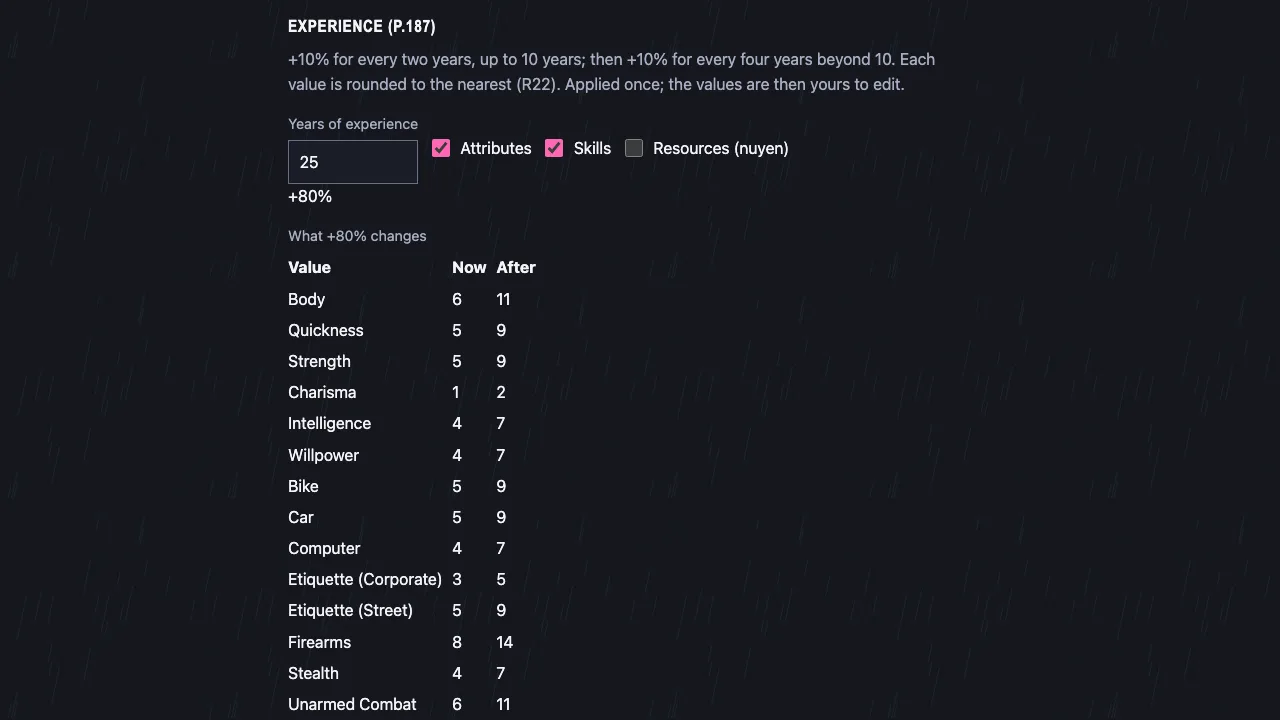
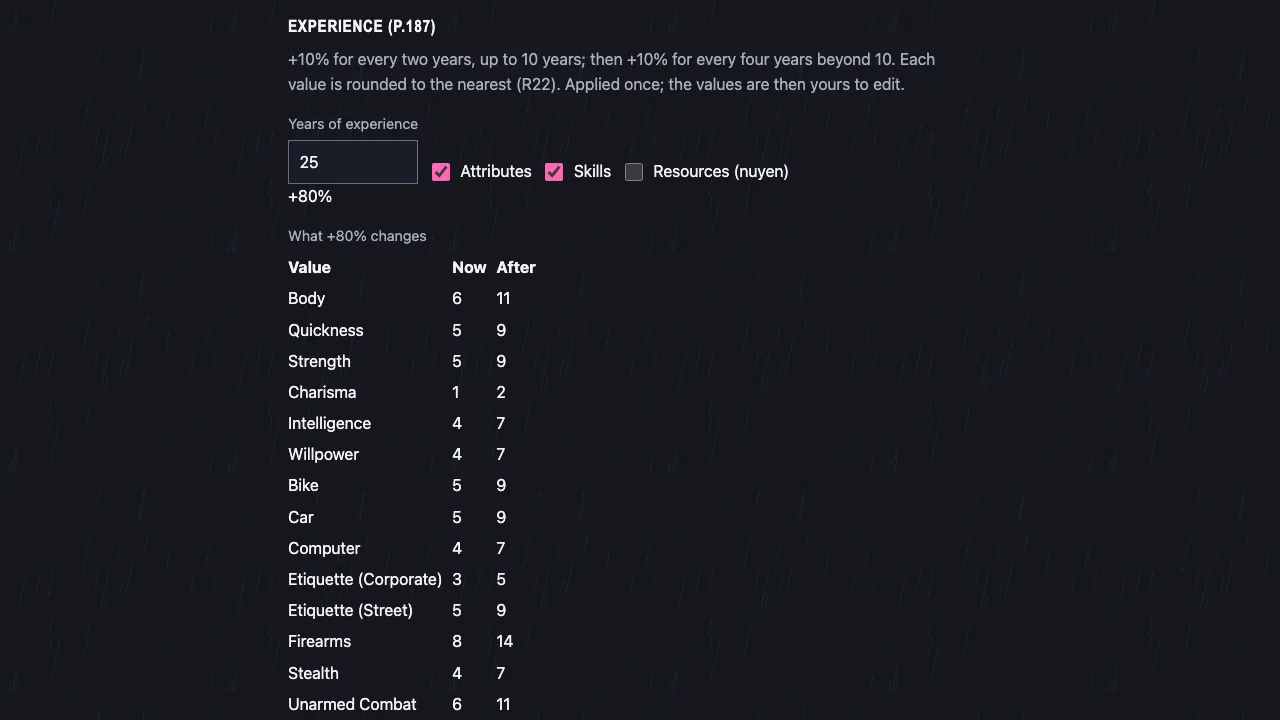
1.3.1: NPC page buttons line up with their fields; tests drop old test databases
The Threat Rating 'Use' buttons (and every button in a row of labelled fields on
the NPC page) align with the fields; 'Keep' for a book PR range has its own row.
Each test file drops earlier runs' unused t_ databases, so a long-lived local
Postgres/MySQL container no longer runs out of shared memory.

diff --git a/client/src/pages/Npc.svelte b/client/src/pages/Npc.svelte
@@ -113,9 +113,9 @@
     {#each [1, 2, 3, 4] as r (r)}<option value={r}>{r} · {PR_NAME[r]}</option>{/each}</select></label>
   <label><span>Threat Rating</span><input type="number" min="0" max="20" value={sys.threatRating} disabled={busy} onchange={(ev) => send([{ op: "setThreatRating", rating: num(ev) }])}></label>
 </div>
-<p class="muted">{#if view.prRange}The book prints {view.prRange[0]}–{view.prRange[1]} for this NPC: pick one. Until then, the low end:
-  <button type="button" class="quiet" disabled={busy} onclick={() => send([{ op: "setProfessionalRating", rating: sys.professionalRating }])}>Keep {sys.professionalRating}</button>{/if}
-  {#if view.professional}{PR_NAME[sys.professionalRating]}: {view.professional.withdraw ? WITHDRAW[view.professional.withdraw] : "fights to the end"}{#if view.professional.withdraw}; the gamemaster may call a Willpower (4) Test to stay{/if}.{/if}</p>
+{#if view.prRange}<div class="row"><p class="muted">The book prints {view.prRange[0]}–{view.prRange[1]} for this NPC: pick one. Until then, the low end.</p>
+  <button type="button" class="quiet" disabled={busy} onclick={() => send([{ op: "setProfessionalRating", rating: sys.professionalRating }])}>Keep {sys.professionalRating}</button></div>{/if}
+<p class="muted">{#if view.professional}{PR_NAME[sys.professionalRating]}: {view.professional.withdraw ? WITHDRAW[view.professional.withdraw] : "fights to the end"}{#if view.professional.withdraw}; the gamemaster may call a Willpower (4) Test to stay{/if}.{/if}</p>
 {#if sys.threatRating > 0}<p class="notice" role="status">Threat Rating {sys.threatRating}: these dice don't refresh and can be used for several tests in a Combat Phase; p.187 says this NPC then uses no Dice Pools. The export turns on "Roll Threat dice", so Foundry rolls them on every test and uses no Dice Pools for this NPC.</p>{/if}
 <div class="row wrap">
   <label><span>From a difficulty (p.68)</span><select bind:value={difficulty} onchange={() => { tnChoice = ""; }}>
@@ -201,3 +201,9 @@
   <p class="muted">It goes to the trash (restorable for 30 days).</p>
   <button class="danger" disabled={busy} onclick={remove}>Delete</button>
 </details>
+
+<style>
+  /* Fields sit under their labels: a button in the same row lines up with the fields, not the labels. */
+  .row.wrap { align-items: end; }
+  .row > p { margin: 0; }
+</style>

diff --git a/CHANGELOG.md b/CHANGELOG.md
@@ -3,6 +3,15 @@
 Every change people can see goes under **Unreleased** in the same commit. A release retitles that section and its
 notes come from it.
 
+## 1.3.1 — 2026-11-27
+
+### Fixed
+- NPC page: the "Use" buttons beside the Threat Rating helpers (and every other button in a row of labelled fields)
+  line up with the fields, not the labels; "Keep" for a book's Professional Rating range is no longer wedged inside
+  the sentence.
+- Tests: each test file drops the test databases of earlier runs that nobody is connected to, so a long-lived local
+  Postgres/MySQL container no longer fills up (Postgres ran out of shared memory, error 53100).
+
 ## 1.3.0 — 2026-11-27
 
 ### Changed — NPC Threat dice roll in Foundry (system 0.172.0, core p.187)
